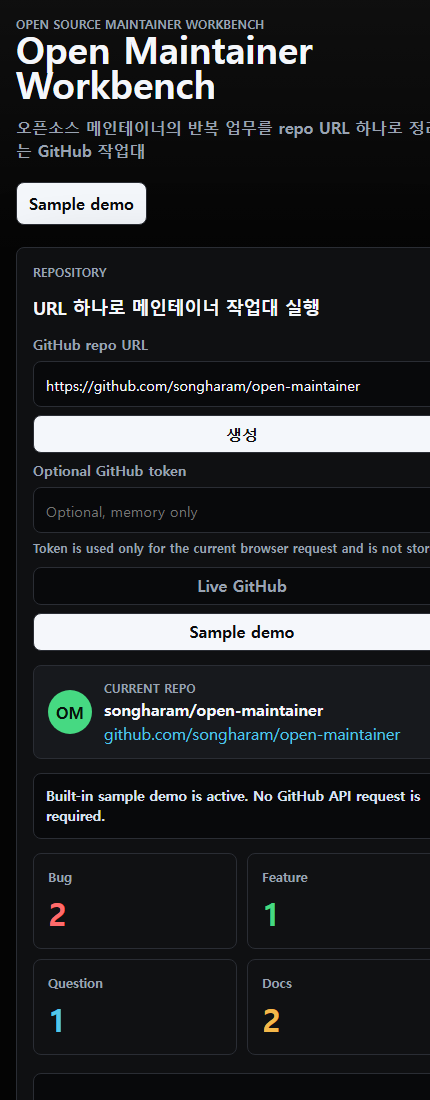
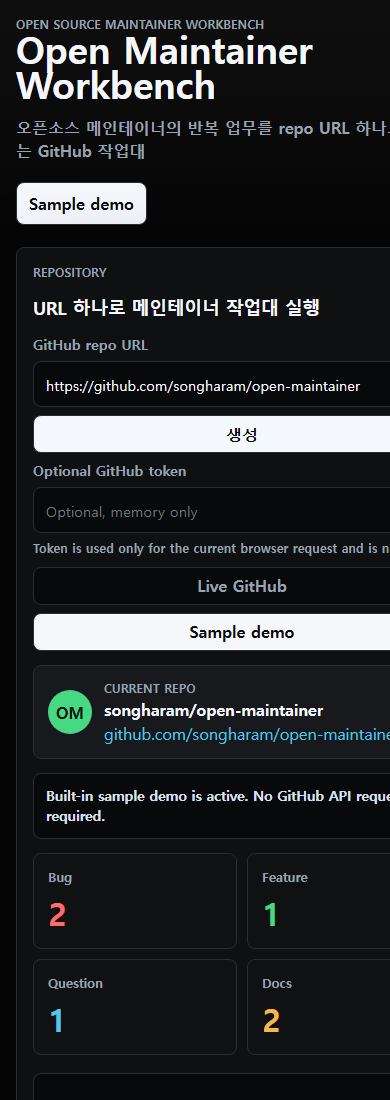
feat: add ecosystem impact brief

Changed region(s): [[0.0308, 0.0, 1.0, 1.0], [0.0923, 0.6182, 1.0, 0.68], [0.5846, 0.7727, 0.8, 0.9582]]

diff --git a/src/analyzer.js b/src/analyzer.js
@@ -65,12 +65,21 @@ export function classifyIssue(issue) {
 
 export function generateMaintainerWorkspace(repoInput, data) {
   const repository = extractRepoIdentity(repoInput);
+  const repositorySignals = data.repository || {};
   const issues = data.issues || [];
   const pullRequests = data.pullRequests || [];
   const releases = data.releases || [];
   const issueSummary = summarizeIssues(issues);
   const goodFirstIssues = pickGoodFirstIssues(issues);
   const priorityBrief = buildPriorityBrief(issues, pullRequests, issueSummary, goodFirstIssues);
+  const impactBrief = buildImpactBrief(
+    repository,
+    repositorySignals,
+    issues,
+    pullRequests,
+    releases,
+    goodFirstIssues
+  );
   const applicationAnswers = buildApplicationAnswers(
     repository,
     issues,
@@ -104,6 +113,7 @@ export function generateMaintainerWorkspace(repoInput, data) {
     contributingDraft: buildContributingDraft(repository),
     goodFirstIssues,
     priorityBrief,
+    impactBrief,
     weeklyReport: buildWeeklyReport(repository, issues, pullRequests, issueSummary),
     applicationPitch: buildApplicationPitch(repository, issues, pullRequests, issueSummary),
     applicationAnswers,
@@ -333,6 +343,95 @@ ${answers.additionalContext}
 Characters: ${answers.additionalContext.length}/500`;
 }
 
+function buildImpactBrief(repository, repositorySignals, issues, pullRequests, releases, goodFirstIssues) {
+  const metrics = normalizeRepositorySignals(repositorySignals);
+  const checks = [
+    {
+      label: "Repository purpose is described",
+      passed: Boolean(metrics.description),
+      points: 15
+    },
+    {
+      label: "Public usage signals are present",
+      passed: metrics.stars > 0 || metrics.forks > 0,
+      points: 20
+    },
+    {
+      label: "Public maintenance workload is visible",
+      passed: issues.length > 0 || pullRequests.length > 0,
+      points: 20
+    },
+    {
+      label: "Release history can inform release notes",
+      passed: releases.length > 0,
+      points: 15
+    },
+    {
+      label: "New contributor path has candidates",
+      passed: goodFirstIssues.length > 0,
+      points: 15
+    },
+    {
+      label: "Project basics are discoverable",
+      passed: Boolean(metrics.license || metrics.defaultBranch || metrics.topics.length),
+      points: 15
+    }
+  ];
+  const score = checks
+    .filter((check) => check.passed)
+    .reduce((total, check) => total + check.points, 0);
+  const checklist = checks
+    .map((check) => `- [${check.passed ? "x" : " "}] ${check.label} (${check.points} pts)`)
+    .join("\n");
+  const topics = metrics.topics.length ? metrics.topics.join(", ") : "Not provided";
+
+  return {
+    score,
+    metrics,
+    report: `# Ecosystem impact brief
+
+Repository: ${repository.owner}/${repository.repo}
+Description: ${metrics.description || "Not provided"}
+
+## Public maintenance signals
+
+- Stars: ${formatMetric(metrics.stars)}
+- Forks: ${formatMetric(metrics.forks)}
+- Open issues: ${formatMetric(metrics.openIssues)}
+- Active PRs reviewed by this demo: ${pullRequests.length}
+- Issues classified by this demo: ${issues.length}
+- Releases available for notes: ${releases.length}
+- Good first issue candidates: ${goodFirstIssues.length}
+- License: ${metrics.license || "Not provided"}
+- Default branch: ${metrics.defaultBranch || "Not provided"}
+- Topics: ${topics}
+
+## Support fit score
+
+Score: ${score}/100
+
+${checklist}
+
+## Why this matters
+
+This repository shows a concrete maintainer workflow: triage issues, review PRs, prepare release notes, improve docs, and guide new contributors. Stars and downloads are useful signals, but the core support case is that the project reduces repetitive work for open source maintainers and can improve with repository-aware API credits.`
+  };
+}
+
+function normalizeRepositorySignals(repositorySignals) {
+  return {
+    description: String(repositorySignals.description || "").trim(),
+    stars: Number(repositorySignals.stars) || 0,
+    forks: Number(repositorySignals.forks) || 0,
+    openIssues: Number(repositorySignals.openIssues) || 0,
+    defaultBranch: String(repositorySignals.defaultBranch || "").trim(),
+    license: String(repositorySignals.license || "").trim(),
+    topics: Array.isArray(repositorySignals.topics)
+      ? repositorySignals.topics.map((topic) => String(topic).trim()).filter(Boolean)
+      : []
+  };
+}
+
 function buildApplicationReadiness(issues, pullRequests, releases, goodFirstIssues, answers) {
   const checks = [
     {
@@ -473,6 +572,10 @@ ${workspace.weeklyReport}
 
 ${workspace.applicationPitch}
 
+## Ecosystem impact brief
+
+${workspace.impactBrief.report}
+
 ## Support application pack
 
 ${workspace.supportApplicationPack}
@@ -532,6 +635,10 @@ function buildIssueReason(issue, category) {
 
 function formatList(items, fallback) {
   return (items.length ? items : fallback).map((item) => `- ${item}`).join("\n");
+}
+
+function formatMetric(value) {
+  return Number(value || 0).toLocaleString("en-US");
 }
 
 function toRepoIdentity(owner, repo) {

diff --git a/src/providers/github-provider.js b/src/providers/github-provider.js
@@ -24,26 +24,28 @@ export async function getRepositorySnapshotFromGitHub(repoIdentity, options = {}
   const owner = encodeURIComponent(repoIdentity.owner);
   const repo = encodeURIComponent(repoIdentity.repo);
   const baseUrl = `${GITHUB_API_BASE}/repos/${owner}/${repo}`;
-  const [issuesPayload, pullsPayload, releasesPayload] = await Promise.all([
+  const [repositoryPayload, issuesPayload, pullsPayload, releasesPayload] = await Promise.all([
+    requestJson(baseUrl, fetcher, requestHeaders),
     requestJson(`${baseUrl}/issues?state=open&per_page=30&sort=updated&direction=desc`, fetcher, requestHeaders),
     requestJson(`${baseUrl}/pulls?state=open&per_page=10&sort=updated&direction=desc`, fetcher, requestHeaders),
     requestJson(`${baseUrl}/releases?per_page=5`, fetcher, requestHeaders)
   ]);
 
   const pullRequests = await Promise.all(
-    pullsPayload.map((pullRequest) =>
+    asArray(pullsPayload).map((pullRequest) =>
       normalizePullRequest(baseUrl, pullRequest, fetcher, requestHeaders)
     )
   );
-  const issues = issuesPayload
+  const issues = asArray(issuesPayload)
     .filter((issue) => !issue.pull_request)
     .map(normalizeIssue);
-  const releases = releasesPayload.map(normalizeRelease);
+  const releases = asArray(releasesPayload).map(normalizeRelease);
   const status = buildStatus(issues, pullRequests, releases);
 
   return {
     provider: "github",
     status,
+    repository: normalizeRepository(repositoryPayload),
     issues,
     pullRequests,
     releases
@@ -72,7 +74,7 @@ async function requestJson(url, fetcher, headers) {
     throw toProviderError(response, body);
   }
 
-  return Array.isArray(body) ? body : [];
+  return body;
 }
 
 function toProviderError(response, body) {
@@ -110,6 +112,22 @@ function normalizeIssue(issue) {
     labels: normalizeLabels(issue.labels),
     comments: issue.comments || 0,
     updatedAt: issue.updated_at || issue.created_at || ""
+  };
+}
+
+function normalizeRepository(repository) {
+  const source = repository && typeof repository === "object" && !Array.isArray(repository)
+    ? repository
+    : {};
+
+  return {
+    description: source.description || "",
+    stars: Number(source.stargazers_count) || 0,
+    forks: Number(source.forks_count) || 0,
+    openIssues: Number(source.open_issues_count) || 0,
+    defaultBranch: source.default_branch || "",
+    license: source.license?.spdx_id || source.license?.name || "",
+    topics: Array.isArray(source.topics) ? source.topics.filter(Boolean) : []
   };
 }
 
@@ -177,6 +195,10 @@ function buildRequestHeaders(token) {
 
 function sum(items, key) {
   return items.reduce((total, item) => total + (Number(item[key]) || 0), 0);
+}
+
+function asArray(value) {
+  return Array.isArray(value) ? value : [];
 }
 
 function getHeader(headers, name) {

diff --git a/index.html b/index.html
@@ -125,6 +125,7 @@
             <button class="tab" data-tab="report" type="button">리포트</button>
             <button class="tab" data-tab="pitch" type="button">프로젝트 요약</button>
             <button class="tab" data-tab="support" type="button">지원서 팩</button>
+            <button class="tab" data-tab="impact" type="button">Impact</button>
             <button class="tab" data-tab="readiness" type="button">Readiness</button>
             <button class="tab" data-tab="export" type="button">Export</button>
           </nav>
@@ -251,6 +252,17 @@
               <button class="copy-button" data-copy="supportOutput" type="button">복사</button>
             </div>
             <pre id="supportOutput"></pre>
+          </article>
+
+          <article class="tab-panel document-panel" id="impact">
+            <div class="document-heading">
+              <div>
+                <span class="section-kicker">Ecosystem impact</span>
+                <h2>Impact brief</h2>
+              </div>
+              <button class="copy-button" data-copy="impactOutput" type="button">Copy</button>
+            </div>
+            <pre id="impactOutput"></pre>
           </article>
 
           <article class="tab-panel document-panel" id="readiness">

diff --git a/src/sample-data.js b/src/sample-data.js
@@ -1,4 +1,13 @@
 export const sampleRepositoryData = {
+  repository: {
+    description: "Static workbench for recurring open source maintainer tasks.",
+    stars: 128,
+    forks: 18,
+    openIssues: 24,
+    defaultBranch: "main",
+    license: "MIT",
+    topics: ["open-source", "maintainer-tools", "issue-triage"]
+  },
   issues: [
     {
       number: 128,

diff --git a/app.js b/app.js
@@ -34,6 +34,7 @@ const outputs = {
   contributing: document.querySelector("#contributingOutput"),
   report: document.querySelector("#reportOutput"),
   pitch: document.querySelector("#pitchOutput"),
+  impact: document.querySelector("#impactOutput"),
   support: document.querySelector("#supportOutput"),
   readiness: document.querySelector("#readinessOutput"),
   export: document.querySelector("#exportOutput")
@@ -127,6 +128,7 @@ async function renderWorkspace(repoValue) {
   outputs.contributing.textContent = workspace.contributingDraft;
   outputs.report.textContent = workspace.weeklyReport;
   outputs.pitch.textContent = workspace.applicationPitch;
+  outputs.impact.textContent = workspace.impactBrief.report;
   outputs.support.textContent = workspace.supportApplicationPack;
   outputs.readiness.textContent = workspace.applicationReadiness.report;
   outputs.export.textContent = workspace.markdownExport;

diff --git a/docs/architecture.md b/docs/architecture.md
@@ -40,13 +40,22 @@ Providers should return a repository snapshot:
 
 ```js
 {
+  repository: {
+    description: "",
+    stars: 0,
+    forks: 0,
+    openIssues: 0,
+    defaultBranch: "main",
+    license: "MIT",
+    topics: []
+  },
   issues: [],
   pullRequests: [],
   releases: []
 }
 ```
 
-The analyzer receives that snapshot and returns UI-ready strings and structured lists, including issue triage, PR review checklist, repository health checklist, release notes, README suggestions, CONTRIBUTING draft, good first issue recommendations, weekly report, project summary, support application pack, application readiness score, and Markdown export. The UI does not need to know whether data came from sample mode or GitHub API mode.
+The analyzer receives that snapshot and returns UI-ready strings and structured lists, including issue triage, PR review checklist, repository health checklist, release notes, README suggestions, CONTRIBUTING draft, good first issue recommendations, weekly report, project summary, ecosystem impact brief, support application pack, application readiness score, and Markdown export. The UI does not need to know whether data came from sample mode or GitHub API mode.
 
 ## Design Constraints
 

diff --git a/docs/github-api-integration.md b/docs/github-api-integration.md
@@ -15,6 +15,7 @@ The implementation does not require a token for public repositories. When a toke
 
 Provider support fetches:
 
+- Repository metadata
 - Open issues
 - Open pull requests
 - Pull request changed files
@@ -26,6 +27,15 @@ GitHub responses should be normalized into:
 
 ```js
 {
+  repository: {
+    description,
+    stars,
+    forks,
+    openIssues,
+    defaultBranch,
+    license,
+    topics
+  },
   issues: [
     {
       number,

diff --git a/CHANGELOG.md b/CHANGELOG.md
@@ -1,5 +1,12 @@
 # Changelog
 
+## 0.10.0 - 2026-06-07
+
+- Added an `Impact` tab with an ecosystem impact brief, public repository signals, and support fit score.
+- Extended sample and live GitHub providers with repository metadata such as stars, forks, license, default branch, and topics.
+- Included the ecosystem impact brief in Markdown export and analyzer tests.
+- Updated README, demo script, architecture, GitHub API docs, and roadmap for the impact workflow.
+
 ## 0.9.1 - 2026-06-06
 
 - Updated GitHub Actions workflows to Node.js 24-compatible action majors.

diff --git a/README.md b/README.md
@@ -27,6 +27,7 @@ Open Maintainer Workbench는 오픈소스 메인테이너가 반복적으로 처
 - 프로젝트 공유 및 지원용 요약 생성
 - 500자 제한에 맞춘 지원 신청 답변 패키지 생성
 - Application readiness score and submission checklist
+- Ecosystem impact brief with stars, forks, license, topics, and support fit score
 - 전체 산출물 Markdown 복사 및 다운로드
 - 공개 GitHub 저장소의 Issues, Pull Requests, Releases live 읽기
 - 선택적 GitHub token 입력 지원: 브라우저 메모리에서만 사용하고 저장하지 않음
@@ -109,6 +110,7 @@ python3 -m http.server 4173
 
 `src/providers/github-provider.js`는 다음 데이터를 기존 snapshot 형식으로 변환합니다.
 
+- Repository metadata: `/repos/{owner}/{repo}`
 - Open issues: `/repos/{owner}/{repo}/issues`
 - Open pull requests: `/repos/{owner}/{repo}/pulls`
 - Pull request files: `/repos/{owner}/{repo}/pulls/{pull_number}/files`

diff --git a/docs/roadmap.md b/docs/roadmap.md
@@ -8,10 +8,12 @@
 - Add a repository health checklist for GitHub profile, labels, templates, CI, and release readiness. Completed in `0.5.0`.
 - Add a support application answer pack with 500-character-ready drafts. Completed in `0.7.0`.
 - Add an application readiness score with evidence checklist and next actions. Completed in `0.9.0`.
+- Add an ecosystem impact brief with public repository signals and support fit score. Completed in `0.10.0`.
 
 ## Phase 2: GitHub API Provider
 
 - Fetch open issues, pull requests, pull request files, and releases. Completed in `0.4.0`.
+- Fetch repository metadata for stars, forks, license, default branch, and topics. Completed in `0.10.0`.
 - Normalize GitHub API responses into the existing snapshot shape. Completed in `0.4.0`.
 - Keep sample mode as a no-login fallback. Completed in `0.4.0`.
 - Support optional user-provided tokens without storing them. Completed in `0.8.0`.

diff --git a/docs/codex-application-summary.md b/docs/codex-application-summary.md
@@ -20,6 +20,7 @@ Open Maintainer Workbench는 오픈소스 메인테이너가 반복적으로 수
 - `프로젝트 요약` 탭에서 공유나 지원 신청에 사용할 문제, 해결, 확장 계획을 바로 확인할 수 있습니다.
 - `지원서 팩` 탭에서 저장소 적합성, API 크레딧 사용 계획, 추가 설명을 500자 제한에 맞춘 초안으로 복사할 수 있습니다.
 - `Readiness` 탭에서 신청 준비 점수, 증거 체크리스트, 남은 액션을 바로 점검할 수 있습니다.
+- `Impact` 탭에서 stars, forks, license, topics, workload evidence를 포함한 ecosystem impact brief를 확인할 수 있습니다.
 - `Export` 탭에서 전체 산출물을 하나의 Markdown 문서로 복사하거나 다운로드할 수 있습니다.
 - 검정색 기반의 간결한 UI로 신청용 데모 화면에서 기능이 바로 드러납니다.
 

diff --git a/docs/demo-script.md b/docs/demo-script.md
@@ -25,6 +25,7 @@ Walk through these tabs:
 - `리포트`: weekly maintainer report
 - `프로젝트 요약`: project summary for sharing or support applications
 - `지원서 팩`: 500-character-ready repository fit, API credit plan, and additional context drafts
+- `Impact`: ecosystem impact brief with public repository signals and support fit score
 - `Readiness`: application readiness score, evidence checklist, and remaining next actions
 - `Export`: all generated outputs as one Markdown document
 